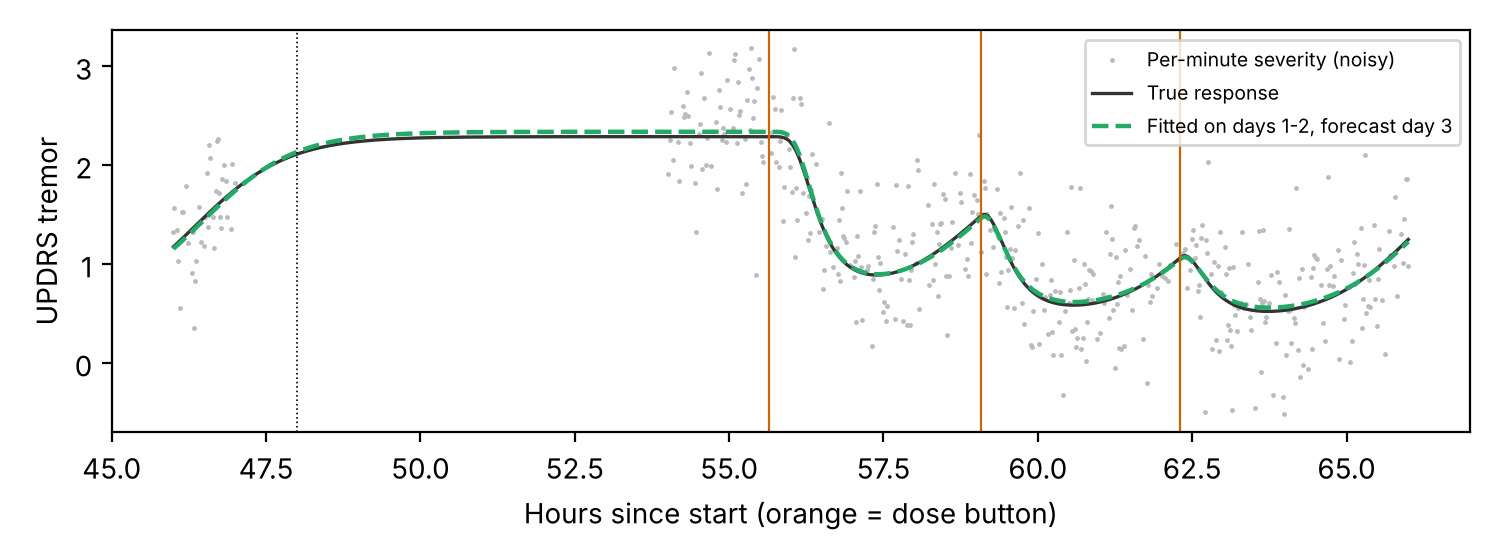
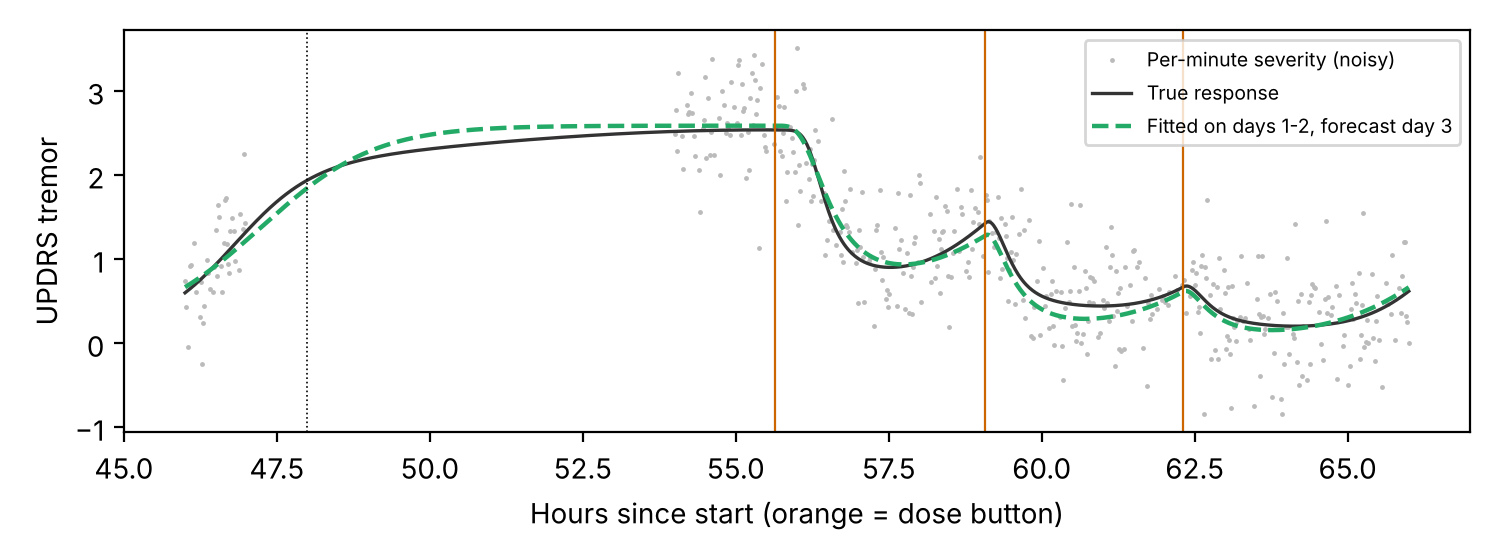
test(eval): simulate patients that differ from the fitted response model
The first evaluation generated patients with the same model it fitted,
which overstated accuracy. Simulated patients now vary half-life, Hill
slope and daily baseline drift.

Claude-Session: https://claude.ai/code/session_01Bfc1hPAyx2as7WBdhec4xc

diff --git a/ml/scripts/evaluate.py b/ml/scripts/evaluate.py
@@ -229,6 +229,17 @@ def eval_phase(n_subj=60, secs=60, latency=0.04, seed=11):
             "frequency_error_hz_mean": r3(np.mean(f_err))}
 
 
+def wearing_off_true(t_from, doses, truth, horizon_h=8.0, frac=0.5):
+    t = np.arange(t_from, t_from + horizon_h, medcurve.DT_H)
+    t_all = np.arange(min(doses) - medcurve.DT_H, t_from + horizon_h, medcurve.DT_H)
+    s = truth(t_all, doses)[-len(t):]
+    i = int(np.argmin(s))
+    s0 = truth(np.array([min(doses) - 1.0]), doses)[0]
+    thr = s[i] + frac * (s0 - s[i])
+    after = np.where(s[i:] >= thr)[0]
+    return None if len(after) == 0 else float(t[i + after[0]])
+
+
 def eval_medcurve(n_pat=100, seed=5):
     rng = np.random.default_rng(seed)
     pop = np.array([1.5, 0.8, 1.8, 0.5, 2.8])  # population prior (= fit initial guess)
@@ -243,7 +254,14 @@ def eval_medcurve(n_pat=100, seed=5):
             for h0 in (7, 11, 15, 19):
                 doses.append(day * 24 + h0 + rng.normal(scale=0.4))
         doses = np.array(doses)
-        s_true = medcurve.severity(t, doses, true)
+        # The simulated patient deliberately differs from the fitted model:
+        # half-life 1-2.5 h (fit assumes 1.5 h), Hill slope 2-5 (fit assumes 3),
+        # and a slow daily drift in baseline tremor that the model lacks.
+        ke = math.log(2) / rng.uniform(1.0, 2.5)
+        gamma = rng.uniform(2.0, 5.0)
+        drift = 0.25 * np.sin(2 * np.pi * (t - rng.uniform(0, 24)) / 24)
+        truth = lambda tt, dd: medcurve.severity(tt, dd, true, ke=ke, gamma=gamma)
+        s_true = truth(t, doses) + drift
         obs = s_true + rng.normal(scale=0.45, size=len(t))
         obs[rng.random(len(t)) < 0.4] = np.nan          # not still -> no reading
         obs[(np.mod(t, 24) < 6) | (np.mod(t, 24) > 23)] = np.nan  # asleep
@@ -255,7 +273,7 @@ def eval_medcurve(n_pat=100, seed=5):
         rs.append(np.corrcoef(s_fit[day3], s_true[day3])[0, 1])
         rs_pop.append(np.corrcoef(s_pop[day3], s_true[day3])[0, 1])
         for d in doses[doses >= 48]:
-            wo_true = medcurve.wearing_off_time(d, doses[doses <= d], true)
+            wo_true = wearing_off_true(d, doses[doses <= d], truth)
             wo_fit = medcurve.wearing_off_time(d, doses[doses <= d], p)
             wo_pop = medcurve.wearing_off_time(d, doses[doses <= d], pop)
             if None not in (wo_true, wo_fit, wo_pop):
@@ -280,6 +298,7 @@ def eval_medcurve(n_pat=100, seed=5):
     fig.savefig(os.path.join(FIG, "medcurve.png"), dpi=200)
     plt.close(fig)
     return {"patients": n_pat, "fit_days": 2, "forecast_day": 3,
+            "model_mismatch": "true half-life 1-2.5 h, Hill slope 2-5, +-0.25 daily baseline drift; fit assumes fixed 1.5 h and 3",
             "curve_r_personal_median": r3(np.median(rs)), "curve_r_population_median": r3(np.median(rs_pop)),
             "wearing_off_mae_min_personal": r3(np.mean(mae_fit)),
             "wearing_off_mae_min_population": r3(np.mean(mae_pop)),

diff --git a/ml/tremorsense/medcurve.py b/ml/tremorsense/medcurve.py
@@ -32,13 +32,13 @@ UPPER = np.array([6.0, 4.0, 4.0, 2.0, 4.5])
 INIT = np.array([1.5, 0.8, 1.8, 0.5, 2.8])
 
 
-def plasma(t_h: np.ndarray, doses_h: np.ndarray, ka: float) -> np.ndarray:
+def plasma(t_h: np.ndarray, doses_h: np.ndarray, ka: float, ke: float = KE) -> np.ndarray:
     c = np.zeros_like(t_h)
-    k = ka / (ka - KE) if abs(ka - KE) > 1e-6 else 1.0
+    k = ka / (ka - ke) if abs(ka - ke) > 1e-6 else 1.0
     for td in doses_h:
         d = t_h - td
         m = d > 0
-        c[m] += k * (np.exp(-KE * d[m]) - np.exp(-ka * d[m]))
+        c[m] += k * (np.exp(-ke * d[m]) - np.exp(-ka * d[m]))
     return c
 
 
@@ -50,11 +50,13 @@ def effect_site(c: np.ndarray, ke0: float) -> np.ndarray:
     return ce
 
 
-def severity(t_h, doses_h, params) -> np.ndarray:
+def severity(t_h, doses_h, params, ke: float = KE, gamma: float = GAMMA) -> np.ndarray:
+    """ke and gamma are fixed in the fitted model; the evaluation varies them
+    in the simulated 'true' patients to test robustness to model mismatch."""
     ka, ke0, emax, ec50, s0 = params
-    ce = effect_site(plasma(t_h, doses_h, ka), ke0)
-    ceg = np.power(np.maximum(ce, 0), GAMMA)
-    return s0 - emax * ceg / (ec50 ** GAMMA + ceg)
+    ce = effect_site(plasma(t_h, doses_h, ka, ke), ke0)
+    ceg = np.power(np.maximum(ce, 0), gamma)
+    return s0 - emax * ceg / (ec50 ** gamma + ceg)
 
 
 def fit(t_h: np.ndarray, obs: np.ndarray, doses_h: np.ndarray, t_grid: np.ndarray | None = None):
